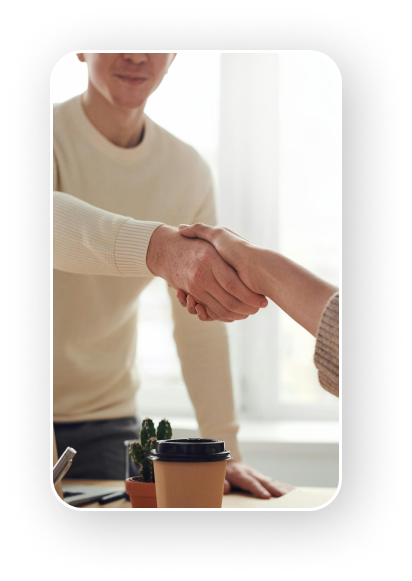
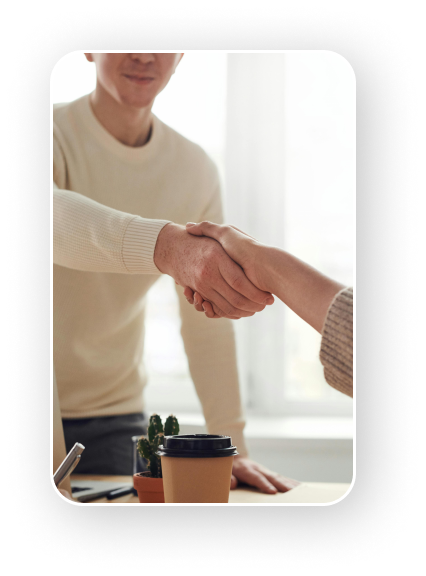
new

diff --git a/src/styles/__partition/acasa.scss b/src/styles/__partition/acasa.scss
@@ -14,7 +14,6 @@
                     position: absolute;
                     top: -125px;
                     width: 300px;
-                    height: 400px;
                     z-index: 100;
                     // background-color: red;
                     animation: img1 18s infinite;
@@ -24,7 +23,6 @@
                     transform: translateX(-150px);
                     width: 250px;
                     top: -275px;
-                    height: 350px;
                     z-index: 98;
                     // background-color: green;
                     animation: img2 18s infinite;
@@ -34,7 +32,6 @@
                     transform: translateX(150px);
                     width: 250px;
                     top: -275px;
-                    height: 350px;
                     z-index: 99;
                     // background-color: blue;
                     animation: img3 18s infinite;
@@ -60,15 +57,13 @@
         transform: translateX(0px);
         width: 300px;
         z-index: 100;
-        height: 400px;
-        top: -125px;
+        top: -75px;
     }
     27.7%{
         transform: translateX(0px);
         width: 300px;
         z-index: 100;
-        height: 400px;
-        top: -125px;
+        top: -75px;
     }
     27.8%{
         z-index: 99;
@@ -76,29 +71,25 @@
     33.2%{
         transform: translateX(-175px);
         width: 250px;
-        top: -275px;
-        height: 350px;
+        top: -300px;
         z-index: 99;
     }
     60.9%{
         transform: translateX(-175px);
         width: 250px;
-        top: -275px;
-        height: 350px;
+        top: -300px;
         z-index: 98;
     }
     66.4%{
         transform: translateX(175px);
         width: 250px;
-        top: -275px;
-        height: 350px;
+        top: -225px;
         z-index: 98;
     }
     94.1%{
         transform: translateX(175px);
         width: 250px;
-        top: -275px;
-        height: 350px;
+        top: -225px;
         z-index: 99;
     }
     94.2%{
@@ -108,8 +99,7 @@
         transform: translateX(0px);
         width: 300px;
         z-index: 100;
-        height: 400px;
-        top: -125px;
+        top: -75px;
     }
 }
 
@@ -117,29 +107,25 @@
     0% {
         transform: translateX(-175px);
         width: 250px;
-        top: -275px;
-        height: 350px;
+        top: -300px;
         z-index: 99;
     }
     27.7%{
         transform: translateX(-175px);
         width: 250px;
-        top: -275px;
-        height: 350px;
+        top: -300px;
         z-index: 98;
     }
     33.2%{
         transform: translateX(175px);
         width: 250px;
-        top: -275px;
-        height: 350px;
+        top: -225px;
         z-index: 98;
     }
     60.9%{
         transform: translateX(175px);
         width: 250px;
-        top: -275px;
-        height: 350px;
+        top: -225px;
         z-index: 99;
     }
     61%{
@@ -149,15 +135,13 @@
         transform: translateX(0px);
         width: 300px;
         z-index: 100;
-        height: 400px;
-        top: -125px;
+        top: -75px;
     }
     94.1%{
         transform: translateX(0px);
         width: 300px;
         z-index: 100;
-        height: 400px;
-        top: -125px;
+        top: -75px;
     }
     94.2%{
         z-index: 99;
@@ -165,8 +149,7 @@
     100% {
         transform: translateX(-175px);
         width: 250px;
-        top: -275px;
-        height: 350px;
+        top: -300px;
         z-index: 99;
     }
 }
@@ -175,15 +158,13 @@
     0% {
         transform: translateX(175px);
         width: 250px;
-        top: -275px;
-        height: 350px;
+        top: -225px;
         z-index: 98;
     }
     27.7%{
         transform: translateX(175px);
         width: 250px;
-        top: -275px;
-        height: 350px;
+        top: -225px;
         z-index: 99;
     }
     27.8%{
@@ -193,15 +174,13 @@
         transform: translateX(0px);
         width: 300px;
         z-index: 100;
-        height: 400px;
-        top: -125px;
+        top: -75px;
     }
     60.9%{
         transform: translateX(0px);
         width: 300px;
         z-index: 100;
-        height: 400px;
-        top: -125px;
+        top: -75px;
     }
     61%{
         z-index: 99;
@@ -209,22 +188,19 @@
     66.4%{
         transform: translateX(-175px);
         width: 250px;
-        top: -275px;
-        height: 350px;
+        top: -300px;
         z-index: 99;
     }
     94.1%{
         transform: translateX(-175px);
         width: 250px;
-        top: -275px;
-        height: 350px;
+        top: -300px;
         z-index: 98;
     }
     100% {
         transform: translateX(175px);
         width: 250px;
-        top: -275px;
-        height: 350px;
+        top: -225px;
         z-index: 98;
     }
 }
